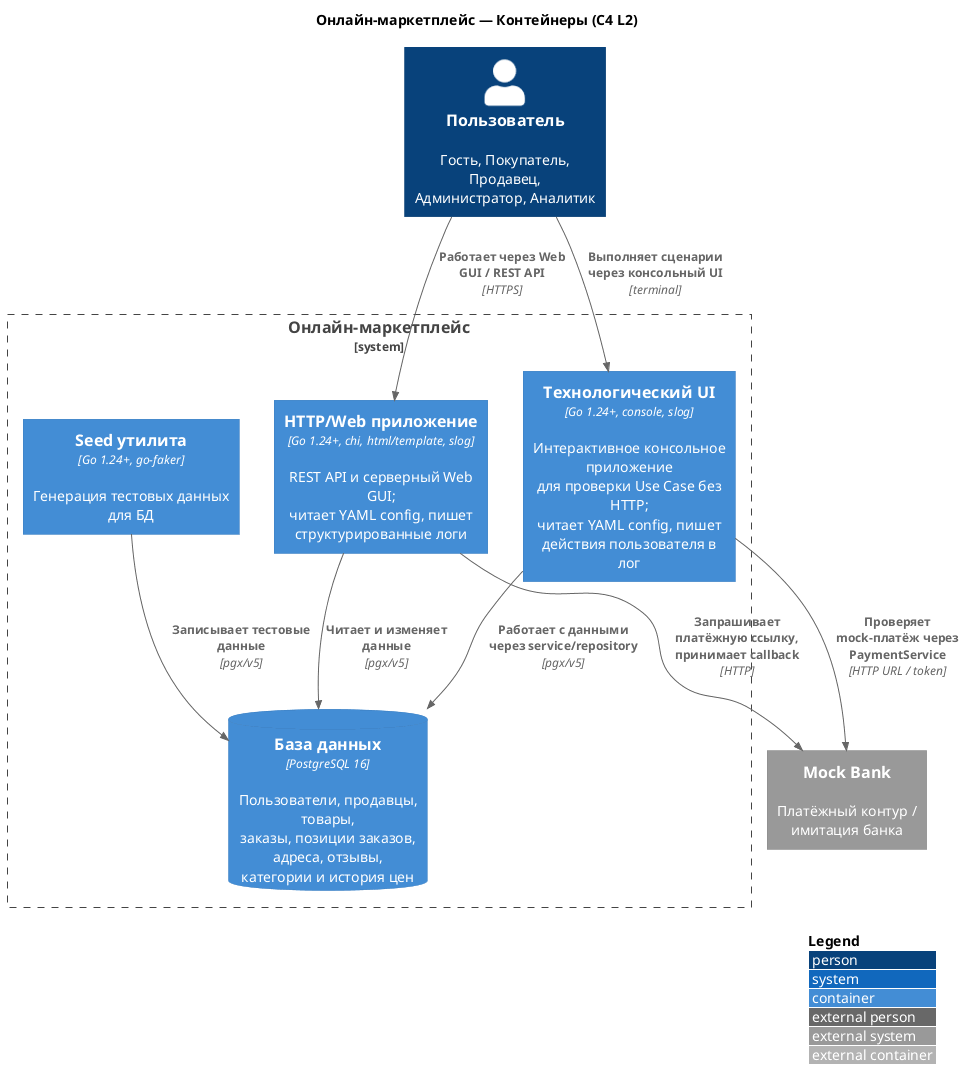
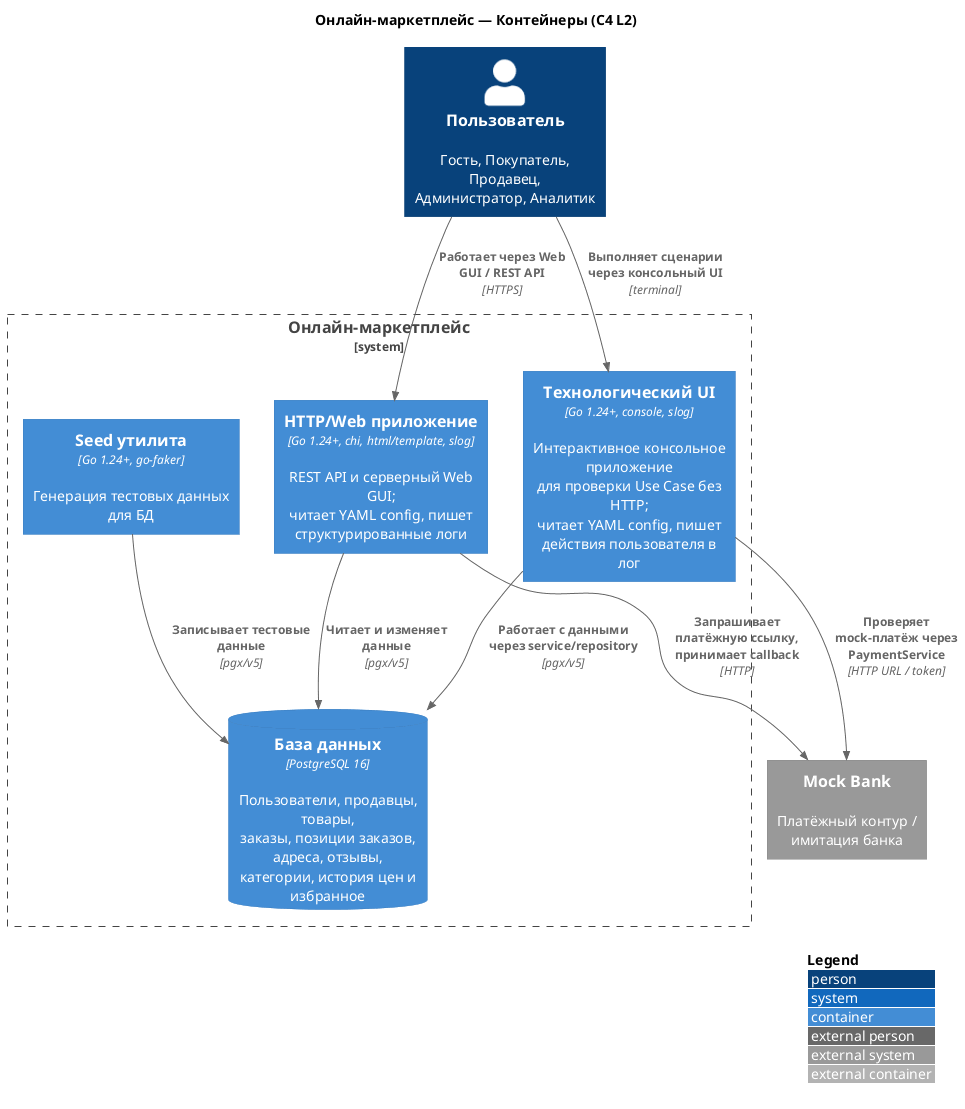
updated C4 L4 diagrams and component wiring added

diff --git a/internal/component/service/component.go b/internal/component/service/component.go
@@ -26,6 +26,7 @@ type Component struct {
 	Order      svc.OrderService
 	Category   svc.CategoryService
 	Backoffice svc.BackofficeService
+	Favorite   svc.FavoriteService
 	Auth       svc.AuthService
 	Payment    *svc.PaymentService
 }
@@ -41,6 +42,7 @@ func New(repos *repocomponent.Component, cfg Config) *Component {
 	order := svc.NewOrderService(repos.Order, repos.OrderItem, repos.Product, repos.Address, repos.Seller, repos.TxManager)
 	category := svc.NewCategoryService(repos.Category)
 	backoffice := svc.NewBackofficeService(repos.Backoffice)
+	favorite := svc.NewFavoriteService(repos.Favorite, product)
 	auth := svc.NewAuthService(user, cfg.TokenBlocklist, cfg.JWTSecret, cfg.TokenTTL)
 	gateway := payment.NewMockBankGateway(cfg.PaymentGatewayBaseURL)
 	payments := svc.NewPaymentService(repos.Order, gateway, cfg.PaymentTTL)
@@ -54,6 +56,7 @@ func New(repos *repocomponent.Component, cfg Config) *Component {
 		Order:      order,
 		Category:   category,
 		Backoffice: backoffice,
+		Favorite:   favorite,
 		Auth:       auth,
 		Payment:    payments,
 	}

diff --git a/internal/component/repository/component.go b/internal/component/repository/component.go
@@ -25,6 +25,7 @@ type Component struct {
 	OrderItem      svc.OrderItemRepo
 	Category       svc.CategoryRepo
 	Backoffice     svc.BackofficeRepo
+	Favorite       svc.FavoriteRepo
 	TxManager      svc.TxManager
 }
 
@@ -72,6 +73,7 @@ func NewFromPoolWithCache(pool *pgxpool.Pool, cfg *CacheConfig) *Component {
 		OrderItem:      store.NewOrderItemRepo(pool),
 		Category:       store.NewCategoryRepo(pool),
 		Backoffice:     store.NewBackofficeRepo(pool),
+		Favorite:       store.NewFavoriteRepo(pool),
 		TxManager:      store.NewPgxTxManager(pool),
 	}
 }

diff --git a/AGENTS.md b/AGENTS.md
@@ -27,21 +27,26 @@ Use the project docs as the first stop for task-specific context.
 
 If docs and current code conflict, trust the current code after verifying it directly, then update the relevant doc as part of the change. Keep docs concise and maintenance-oriented.
 
-## Cost-Controlled Verification
+## Cost-Controlled Reads
 
-Do not run heavy verification, broad inspection, or token-heavy commands without explicit user permission.
+Heavy *commands* are fine without asking — running them shifts cost to the shell, not into the agent's context window. Heavy *reads* are not, because the bytes land in the context.
 
-Ask first before running:
+OK to run without asking, when relevant to the task:
 
-- Full test suites, broad build/syntax checks, linters, formatters, code generation, or dependency downloads.
-- Broad diffs or history inspection such as `git diff`, `git show`, `git log -p`, or large patch views.
-- Commands expected to produce large output or scan most of the repository when a narrower check is enough.
+- Full test suites, build/syntax checks, `go vet`, linters, formatters.
+- Code generation, including `go generate ./...` and targeted `mockgen` for new or changed service-owned interfaces.
+- `make` targets, including PlantUML rendering in `diagrams/`.
+- Dependency downloads (`go mod download`, `go mod tidy`).
+- `git diff`, `git show`, `git log` when the diff is reasonable in size for the task at hand.
 
-Exception: targeted Gomock generation for a new or changed service-owned interface is allowed when the current task includes tests for that interface. Run only the specific `mockgen` command for the needed interface, never broad `go generate ./...`, and do not read or manually edit generated mock files unless generation or compilation fails and the generated file itself is the suspected cause.
+Not OK without a specific reason:
 
-Prefer lightweight, targeted checks by default: `rg`, short `sed`/`nl` ranges, focused file reads, and narrow status commands such as `git status --short`.
+- Reading large generated files end-to-end (e.g. all 2000 lines of an `internal/mocks/...` file). Generated mocks are not source — read them only when generation or compilation fails and the file itself is the suspected cause, and even then read the relevant slice, not the whole file.
+- Reading vendored/third-party code, large binary fixtures, or full PDF transcripts cover-to-cover when a targeted slice answers the question.
+- Re-reading a file you just edited "to confirm" — `Edit`/`Write` would have errored if the change failed.
+- Cat'ing a 1k+ line file when `rg` or a `Read` with `offset`/`limit` would do.
 
-When asking permission, state the exact command or category, why it is useful, and whether it may produce large output or take noticeable time. If permission is not granted, continue with targeted checks and clearly mark any remaining verification gap.
+Default to targeted reads: `rg`, `Read` with `offset`+`limit`, `git status --short`, narrow `git log --oneline -N` ranges. Reach for the whole file only when you actually need the whole file.
 
 ## Learning Mode
 
